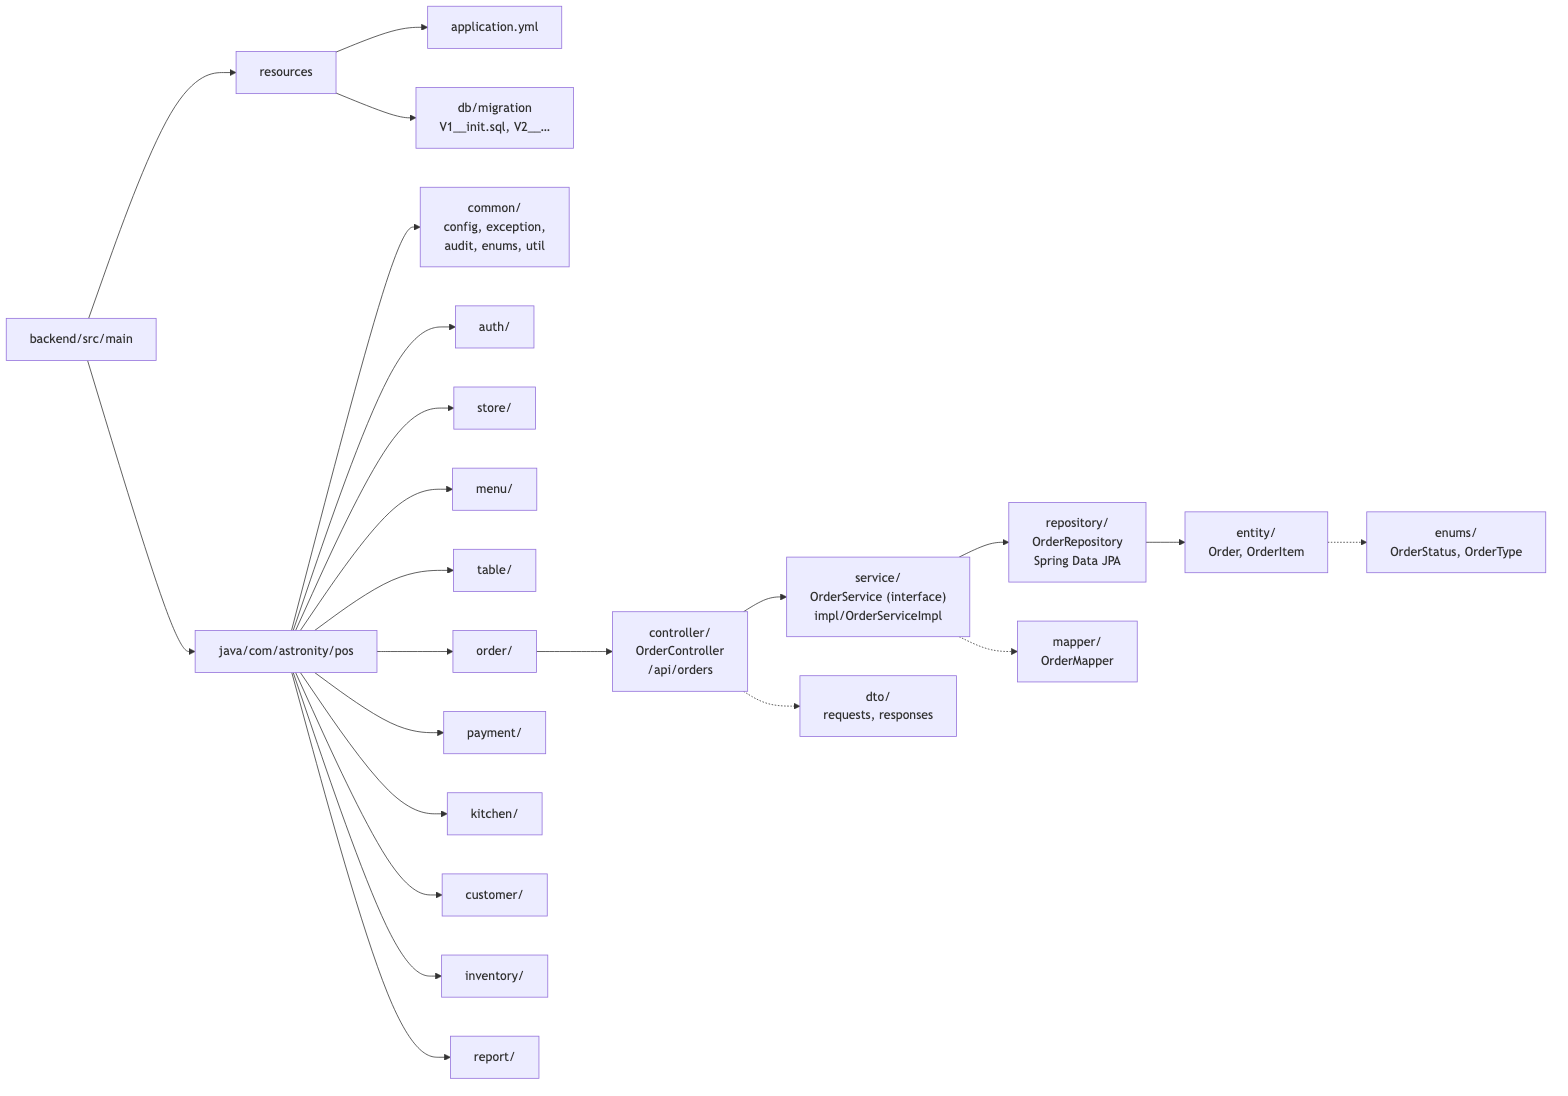
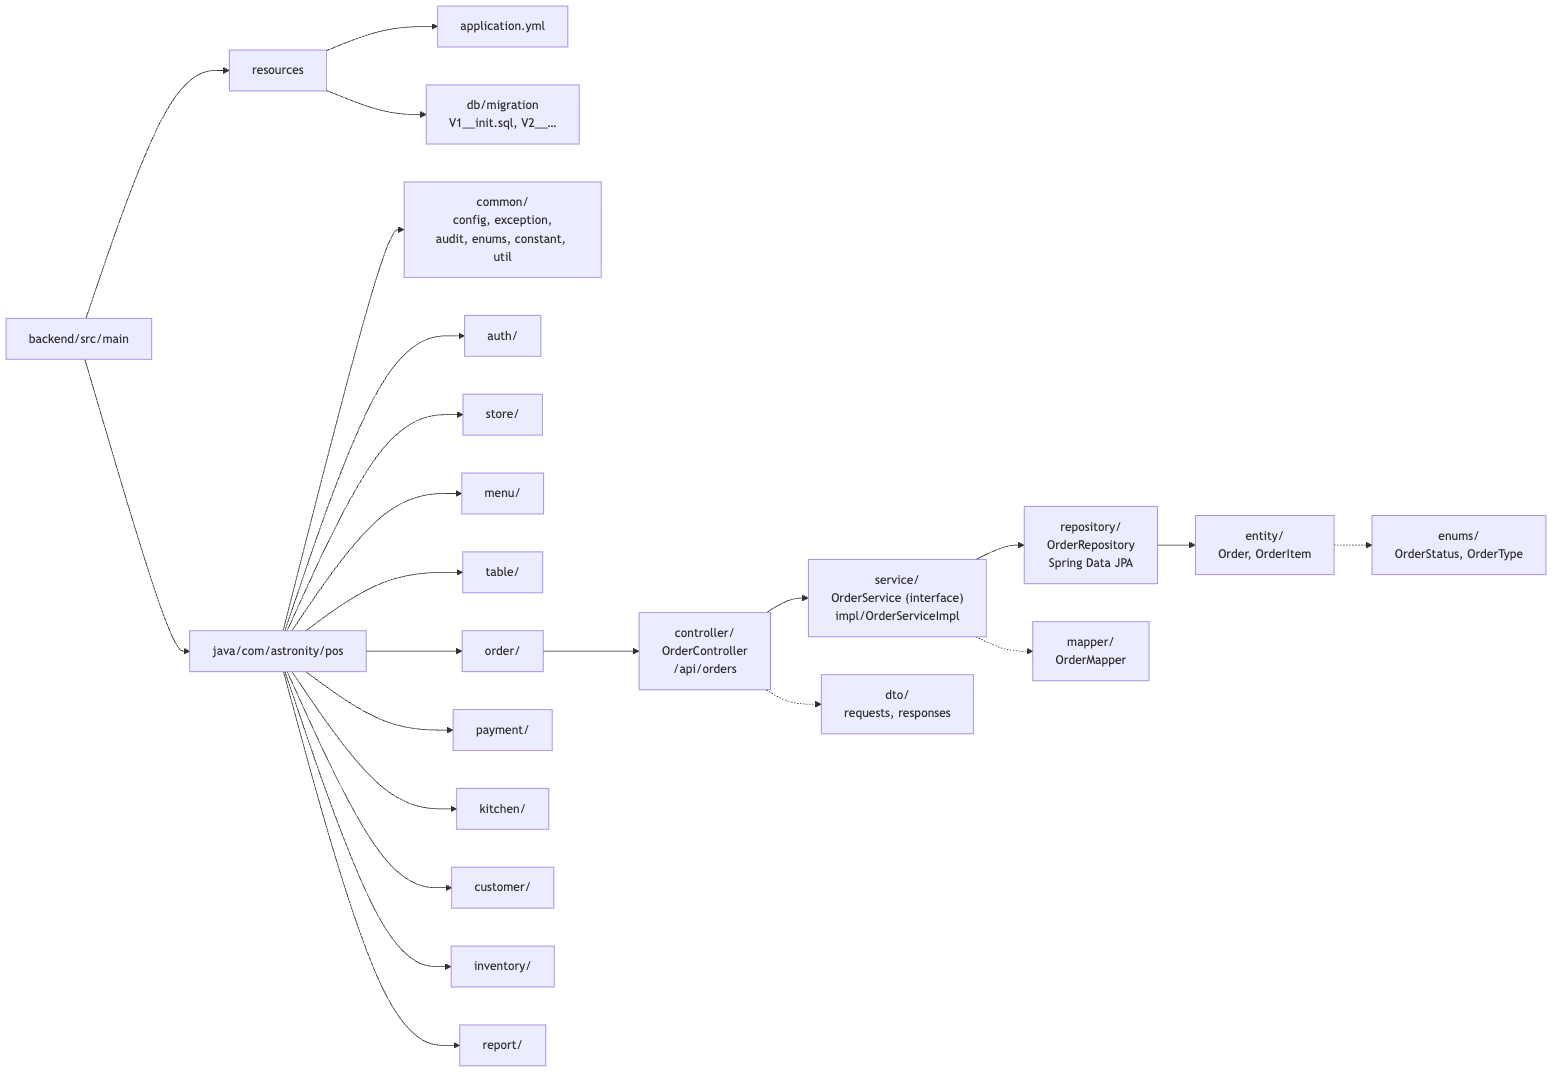
add user package

diff --git a/project-structure/README.md b/project-structure/README.md
@@ -60,6 +60,7 @@ backend/
     │   │   │   ├── response/           (ApiResponse envelope, ApiError, Meta, Pagination)
     │   │   │   ├── audit/              (AuditLog, AuditLogService)
     │   │   │   ├── enums/              (DbEnum interface, DbEnumConverter base)
+    │   │   │   ├── constant/           (AppConstants: app-wide fixed values)
     │   │   │   └── util/               (NumberGenerator for ORD-, KOT-, INV-)
     │   │   ├── auth/                   ← users, roles, permissions, role_permissions, user_roles, login
     │   │   ├── store/                  ← stores, printers, payment_methods (Settings)
@@ -160,6 +161,19 @@ public enum OrderType implements DbEnum {
 
 Enums and exceptions from another feature may be used directly (for example `payment` reading `OrderStatus` or catching `OrderStateException`); unlike `impl`, `repository` and `entity`, they are part of a feature's public contract.
 
+### Constants
+
+`common/constant/AppConstants.java` holds only fixed values used across the whole app, such as the `/api` base path or a shared header name. It is a `final` class with a private constructor and only `public static final` fields.
+
+Everything else has a more specific home:
+
+| Value | Where it goes | Example |
+|---|---|---|
+| Used by one feature only | That feature, next to the code that uses it | `ORD-` prefix in `NumberGenerator` |
+| Someone may want to change it without a release | `application.yml`, read with `@ConfigurationProperties` | Max wrong passwords, lock duration in `auth/config/AuthProperties` |
+| Error code | Inside its exception class | `"ACCOUNT_LOCKED"` in `AccountLockedException` |
+| One of a fixed set of values | An enum in the feature's `enums/` | `OrderStatus` |
+
 ### Tests
 
 The team works test-first (TDD): write a failing test, make it pass, then tidy up. Tests follow the main folder structure: a test sits in the same package as the class it tests. Example, `order/`:
@@ -258,7 +272,7 @@ flowchart LR
   R --> R1["application.yml"]
   R --> R2["db/migration<br/>V1__init.sql, V2__…"]
 
-  J --> C["common/<br/>config, exception,<br/>audit, enums, util"]
+  J --> C["common/<br/>config, exception,<br/>audit, enums, constant, util"]
   J --> F1["auth/"]
   J --> F2["store/"]
   J --> F3["menu/"]
